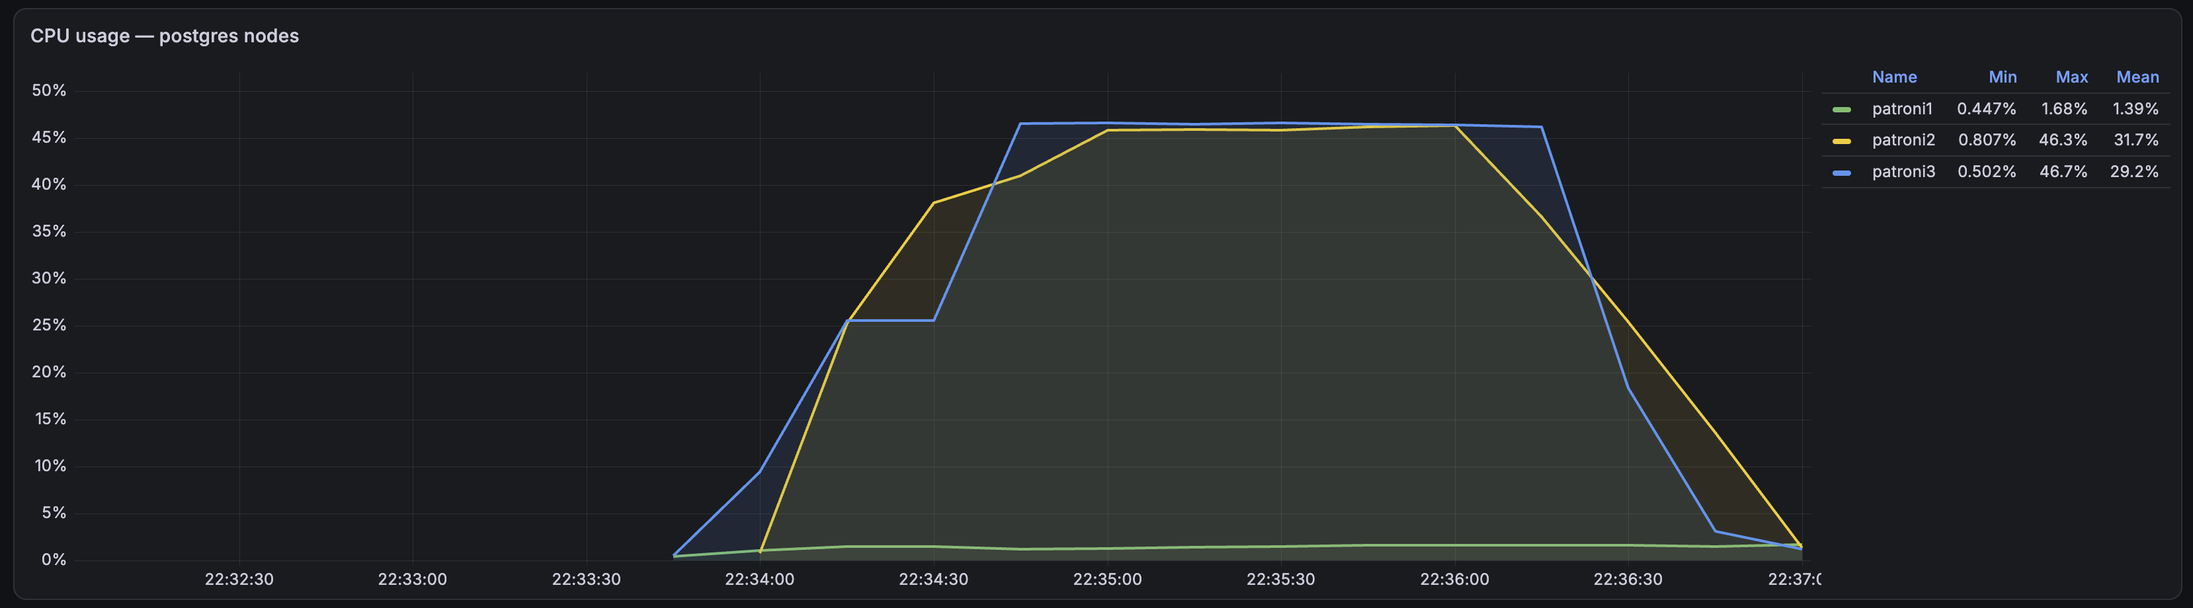
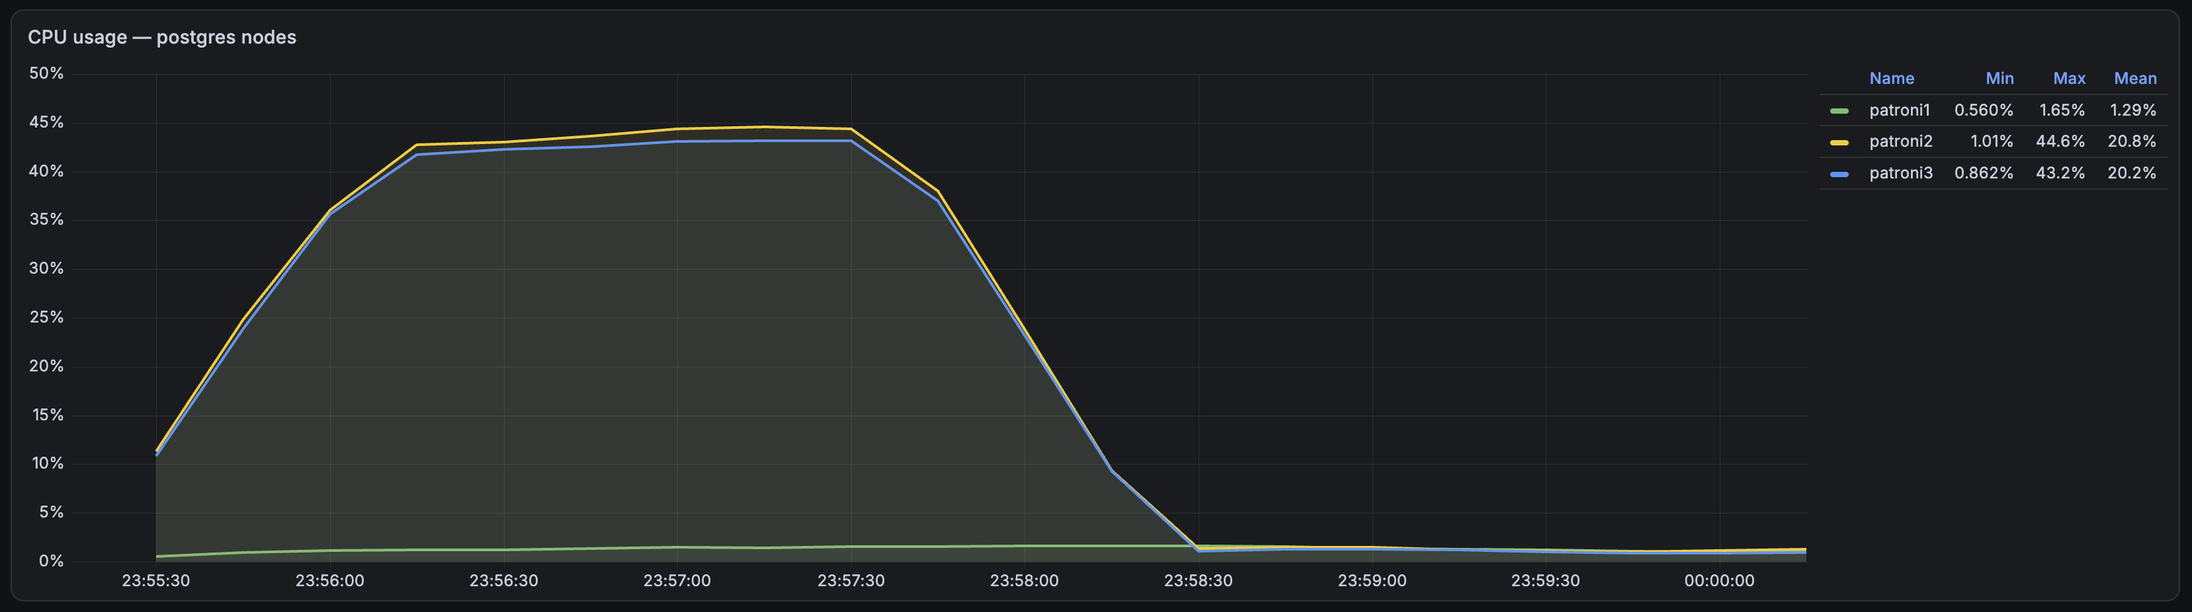
hw3: sync replication with patroni + haproxy + final report

diff --git a/internal/postgres/user.go b/internal/postgres/user.go
@@ -5,8 +5,11 @@ import (
 	"errors"
 	"fmt"
 	"strings"
+	"time"
 
+	"github.com/avast/retry-go/v4"
 	"github.com/jackc/pgx/v5"
+	"github.com/jackc/pgx/v5/pgconn"
 	"github.com/jackc/pgx/v5/pgxpool"
 
 	"github.com/dloshkarev/highloadarchitect/internal/domain"
@@ -29,22 +32,68 @@ func (r *UserRepository) Create(ctx context.Context, user domain.User, passwordH
 			id, first_name, second_name, birthdate, biography, city, password_hash
 		) VALUES ($1, $2, $3, $4, $5, $6, $7)
 	`
-	_, err := r.writePool.Exec(
-		ctx,
-		query,
-		user.ID,
-		user.FirstName,
-		user.SecondName,
-		user.Birthdate,
-		user.Biography,
-		user.City,
-		passwordHash,
+	// Учебное упрощение: ретраим только временные ошибки, чтобы приложение
+	// пережидало переключение лидера Patroni и не влияло на замер потерь
+	// при репликации. duplicate key считаем успехом (идемпотентность:
+	// первый insert закоммитился, но ответ клиенту потерялся).
+	err := retry.Do(
+		func() error {
+			_, err := r.writePool.Exec(
+				ctx,
+				query,
+				user.ID,
+				user.FirstName,
+				user.SecondName,
+				user.Birthdate,
+				user.Biography,
+				user.City,
+				passwordHash,
+			)
+			if isDuplicateKey(err) {
+				return nil
+			}
+
+			return err
+		},
+		retry.Attempts(0),
+		retry.Delay(100*time.Millisecond),
+		retry.MaxDelay(2*time.Second),
+		retry.DelayType(retry.BackOffDelay),
+		retry.LastErrorOnly(true),
+		retry.RetryIf(isTransientPGError),
+		retry.Context(ctx),
 	)
 	if err != nil {
 		return dbErr("insert user", err)
 	}
 
 	return nil
+}
+
+// isDuplicateKey — SQLSTATE 23505 (unique_violation).
+func isDuplicateKey(err error) bool {
+	var pgErr *pgconn.PgError
+
+	return errors.As(err, &pgErr) && pgErr.Code == "23505"
+}
+
+// isTransientPGError решает, стоит ли повторять операцию:
+//   - сетевые ошибки и ошибки пула (не PgError) — ретраим;
+//   - SQLSTATE 08xxx (обрыв соединения) — ретраим;
+//   - 57P03 (cannot_connect_now: сервер в shutdown/recovery) — ретраим;
+//   - 25006 (read_only_sql_transaction: запрос попал на реплику в окне
+//     failover) — ретраим;
+//   - остальные SQLSTATE — постоянные ошибки, ретраить бессмысленно.
+func isTransientPGError(err error) bool {
+	var pgErr *pgconn.PgError
+	if !errors.As(err, &pgErr) {
+		return true
+	}
+	if strings.HasPrefix(pgErr.Code, "08") {
+		return true
+	}
+
+	return pgErr.Code == "57P03" || pgErr.Code == "25006"
 }
 
 func (r *UserRepository) GetByID(ctx context.Context, userID string) (domain.User, error) {

diff --git a/internal/service/user.go b/internal/service/user.go
@@ -4,6 +4,7 @@ import (
 	"context"
 	"fmt"
 	"strings"
+	"sync"
 	"time"
 	"unicode/utf8"
 
@@ -30,6 +31,25 @@ type RegisterInput struct {
 	Biography  string
 	City       string
 	Password   string
+}
+
+// passwordHashCache кеширует хеши по паролю. Учебное упрощение: bcrypt — дорогая
+// CPU-операция, которая мешает тестировать запись в БД, а хеш самодостаточен
+// (соль зашита внутрь), поэтому одинаковый пароль может делить один хеш.
+var passwordHashCache sync.Map
+
+func hashPassword(password string) (string, error) {
+	if cached, ok := passwordHashCache.Load(password); ok {
+		return cached.(string), nil
+	}
+
+	hash, err := bcrypt.GenerateFromPassword([]byte(password), bcrypt.DefaultCost)
+	if err != nil {
+		return "", err
+	}
+	passwordHashCache.Store(password, string(hash))
+
+	return string(hash), nil
 }
 
 type UserSearchFilter struct {
@@ -102,7 +122,7 @@ func newUser(input RegisterInput) (domain.User, string, error) {
 		return domain.User{}, "", validationError("дата рождения должна быть в формате ГГГГ-ММ-ДД")
 	}
 
-	hash, err := bcrypt.GenerateFromPassword([]byte(input.Password), bcrypt.DefaultCost)
+	hash, err := hashPassword(input.Password)
 	if err != nil {
 		return domain.User{}, "", fmt.Errorf("hash password: %w", err)
 	}

diff --git a/docs/reports/hw3/report.md b/docs/reports/hw3/report.md
@@ -1,0 +1,141 @@
+## Методика
+
+- **READ-тест**: 500 000 запросов `GET /user/search` в 100 параллельных потоков.
+- **WRITE-тест**: 250 000 запросов `POST /user/register` в 100 параллельных потоков. Ручка выполняет 1 INSERT и 1 SELECT в БД.
+- Нагрузка подаётся утилитой `cmd/loadgen` с хоста на приложение, развёрнутое в docker-compose.
+- Метрики инфраструктуры снимаются с дашборда Grafana (CPU узлов PostgreSQL, коммиты транзакций).
+
+---
+
+## Эксперимент 1. Один узел PostgreSQL
+
+**Конфигурация**
+
+- 1 узел PostgreSQL.
+- Приложение использует один общий пул соединений на единственный узел.
+
+**Скриншоты**
+
+![Один узел PostgreSQL, READ](1.png)
+
+*READ-тест: дашборд Grafana во время прогона — CPU узла PostgreSQL и число закоммиченных транзакций.*
+
+---
+
+## Эксперимент 2. Кластер из 3 узлов: мастер + 2 реплики, асинхронная потоковая репликация
+
+**Конфигурация**
+
+- 3 узла PostgreSQL с отдельной конфигурацией для каждого в docker-compose; реплики подняты через `pg_basebackup -R` (master, slave, async-slave).
+- Приложение использует 2 пула соединений — для чтения и для записи. Пулы инициализируются списком адресов узлов; узлы для чтения перебираются по Round Robin внутри приложения.
+
+**Скриншоты**
+
+![Кластер master + 2 реплики, READ](2.png)
+
+*READ-тест: дашборд Grafana — CPU трёх узлов кластера (мастер и две реплики) во время прогона. Чтение идёт только на реплики, мастер почти не нагружен.*
+
+---
+
+## Эксперимент 3. Patroni-кластер, асинхронная репликация, роутинг через HAProxy
+
+**Конфигурация**
+
+- 3 узла PostgreSQL под управлением Patroni (асинхронная репликация). Docker-образ каждой ноды включает локальные настройки Patroni.
+- etcd — хранилище динамической конфигурации Patroni (роли узлов).
+- HAProxy с двумя frontend: `pg_write` (мастер) и `pg_read` (реплики). Принадлежность backend-узлов определяется через Patroni REST API (leader/replica health-check).
+- Приложение использует 2 пула соединений, в каждом один адрес — соответствующий frontend HAProxy.
+- Для исключения влияния кода на потери транзакций добавлены бесконечные ретраи вставок (на временные ошибки): пока идут выборы лидера, приложение повторяет INSERT.
+
+Состав кластера на момент теста:
+
+| Узел | Роль | Состояние | Lag |
+|---|---|---|---|
+| patroni1 | leader | running | — |
+| patroni2 | replica | streaming | 0 |
+| patroni3 | replica | streaming | 0 |
+
+**Результаты**
+
+На момент старта теста с остановкой мастера лидером был patroni3; после его остановки лидером стал patroni2, нагрузка чтения перераспределилась на patroni1. Потерь транзакций не зафиксировано — при асинхронной репликации это скорее везение (лаг реплик на localhost близок к нулю, окно потерь минимально).
+
+**Скриншоты**
+
+![Patroni async, READ](3.png)
+
+*READ-тест: дашборд Grafana — CPU узлов Patroni-кластера и коммиты транзакций. Чтение распределяется по репликам через HAProxy.*
+
+![Patroni async, WRITE](6.png)
+
+*WRITE-тест: дашборд Grafana — нагрузка на лидера (все записи идут через frontend pg_write), реплики принимают только WAL.*
+
+![Patroni async, WRITE с остановкой мастера](7.png)
+
+*WRITE-тест с остановкой мастера: в середине прогона лидер patroni3 остановлен, лидером стал patroni2 — виден провал нагрузки на старом лидере и её рост на новом.*
+
+---
+
+## Эксперимент 4. Patroni-кластер, кворумная синхронная репликация, роутинг через HAProxy
+
+**Конфигурация**
+
+- Аналогично эксперименту 3, но включена кворумная синхронная репликация (`synchronous_mode: quorum`, коммит ждёт подтверждения от любой одной реплики).
+
+Состав кластера на момент теста:
+
+| Узел | Роль | Состояние | Lag |
+|---|---|---|---|
+| patroni1 | leader | running | — |
+| patroni2 | quorum_standby | streaming | 0 |
+| patroni3 | quorum_standby | streaming | 0 |
+
+**Результаты**
+
+На момент старта теста с остановкой мастера лидером был patroni1; после его остановки лидером стал patroni2, нагрузка чтения перераспределилась на patroni3. Потерь транзакций нет — при синхронной репликации это гарантируется протоколом (коммит подтверждается только после flush WAL на кворумной реплике).
+
+**Скриншоты**
+
+![Patroni sync, WRITE](4.png)
+
+*WRITE-тест с синхронной репликацией: дашборд Grafana — CPU лидера и quorum-реплик. Коммит ждёт flush WAL на реплике, поэтому нагрузка заметна на всех узлах.*
+
+![Patroni sync, READ](5.png)
+
+*READ-тест с синхронной репликацией: дашборд Grafana — чтение по-прежнему идёт только на реплики, лидер нагружен лишь фоновой репликацией.*
+
+![Patroni sync, WRITE с остановкой мастера](8.png)
+
+*WRITE-тест с остановкой мастера: в середине прогона лидер patroni1 остановлен, лидером стал patroni2 — на графике виден момент переключения и перераспределение нагрузки.*
+
+---
+
+## Сравнение производительности
+
+### READ (500 000 запросов /user/search, 100 потоков)
+
+| Конфигурация | throughput, req/s | latency медиана, мс |
+|---|---|---|
+| 1 узел PostgreSQL | 4141.88 | 24.17 |
+| Мастер + 2 реплики (async, роутинг в приложении) | 4288.97 | 20.81 |
+| Patroni + HAProxy (async) | 3660.45 | 25.55 |
+| Patroni + HAProxy (sync quorum) | 3493.55 | 26.33 |
+
+### WRITE, стабильный кластер (250 000 запросов /user/register, 100 потоков)
+
+| Конфигурация | throughput, req/s | latency медиана, мс |
+|---|---|---|
+| Patroni + HAProxy (async) | 1847.66 | 49.87 |
+| Patroni + HAProxy (sync quorum) | 1300.40 | 67.83 |
+
+### WRITE с остановкой мастера в процессе теста
+
+| Конфигурация | throughput, req/s | latency медиана, мс | Потери транзакций |
+|---|---|---|---|
+| Patroni + HAProxy (async) | 1520.57 | 46.20 | не зафиксированы |
+| Patroni + HAProxy (sync quorum) | 1053.30 | 73.16 | нет |
+
+### Выводы
+
+- **READ**: переход с одного узла на 3-узловой кластер с Round Robin по репликам дал небольшой прирост (~4%); добавление HAProxy и включение синхронной репликации постепенно снижают throughput чтения (~−16% к одиночному узлу) за счёт дополнительного сетевого hop и фоновой репликации.
+- **WRITE**: синхронная репликация ожидаемо дороже асинхронной — throughput падает на ~30% (коммит ждёт flush WAL на реплике), медианная latency растёт с ~50 до ~68 мс.
+- **Остановка мастера** под нагрузкой снижает throughput ещё на ~18% (async) и ~19% (sync): время выборов нового лидера (~несколько секунд) приложение пережидает на ретраях — отдельные запросы ждали до 36–38 с, хотя медиана почти не изменилась. Ошибок и неподтверждённых потерь в обоих режимах не зафиксировано, но гарантию отсутствия потерь даёт только синхронный режим.

diff --git a/README.md b/README.md
@@ -25,6 +25,7 @@ erDiagram
 
 - Токен авторизации — случайный UUID без срока действия. После успешного входа предыдущие токены этого пользователя удаляются, остаётся один действующий токен.
 - Имя и фамилия не длиннее 100 символов, город не длиннее 100, биография не длиннее 2000. Пароль от 8 до 72 символов. Хеш bcrypt принимает не больше 72 байт, поэтому более длинная в байтах строка тоже отклоняется. Тело запроса не больше 64 КБ.
+- При регистрации все пользователи получают одинаковый пароль
 
 ## Интеграционные тесты
 
@@ -45,7 +46,8 @@ make docker-run
 С хоста доступны:
 
 - приложение — http://localhost:8080
-- PostgreSQL — `localhost:5432`, пользователь `social`, пароль `social`, база `social`
+- PostgreSQL через HAProxy: `localhost:5000` — запись (лидер), `localhost:5001` — чтение (реплики); пользователь `social`, пароль `social`, база `social`
+- узлы PostgreSQL напрямую (для отладки): `localhost:5433`–`5435` (`patroni1`–`patroni3`)
 
 Остановка:
 
@@ -82,7 +84,7 @@ make metrics-reset
 
 ## Кластер PostgreSQL (Patroni)
 
-Кластер под управлением Patroni: три узла `patroni1`–`patroni3` (образ `build/patroni.Dockerfile`, конфиг `deployments/patroni/patroni.yml`), состояние кластера — в `etcd`. Лидер и реплики выбираются Patroni автоматически, при первом старте лидер накатывает схему и наполнение через `deployments/patroni/post_bootstrap.sh`.
+Кластер под управлением Patroni: три узла `patroni1`–`patroni3` (образ `build/patroni.Dockerfile`, конфиг `deployments/patroni/patroni.yml`), состояние кластера — в `etcd`. Лидер и реплики выбираются Patroni автоматически, при первом старте лидер накатывает схему и наполнение через `deployments/patroni/post_bootstrap.sh`. Репликация кворумная синхронная (`synchronous_mode: quorum`, `synchronous_standby_names = ANY 1 (...)`): коммит ждёт подтверждения от одной из двух реплик. Управляется через REST API Patroni: `curl -X PATCH http://localhost:8008/config -H 'Content-Type: application/json' -d '{"synchronous_mode": "quorum"}'` (`false` — выключить).
 
 Перед кластером стоит HAProxy (`deployments/haproxy/haproxy.cfg`), роль узлов определяется по REST API Patroni:
 
@@ -92,10 +94,21 @@ make metrics-reset
 
 Приложение ходит только через HAProxy: write-пул на порт 5000, read-пул (поиск анкет) на 5001. Прямые порты узлов для отладки: `localhost:5433`–`5435` (пользователь `social`, пароль `social`, база `social`).
 
-Состояние кластера:
+Состав и состояние кластера (кто лидер, кто реплика, лаг):
 
 ```bash
 docker exec highloadarchitect-patroni1 gosu postgres patronictl -c /etc/patroni/patroni.yml list
+```
+
+То же самое через REST API Patroni с хоста — `/cluster` отдаёт состав всего кластера и доступен с любого живого узла, `/patroni` — подробное состояние конкретного узла:
+
+- patroni1 — http://localhost:8008/cluster
+- patroni2 — http://localhost:8009/cluster
+- patroni3 — http://localhost:8010/cluster
+
+```bash
+curl -s http://localhost:8009/cluster | python3 -m json.tool   # состав кластера
+curl -s http://localhost:8009/patroni  | python3 -m json.tool   # состояние узла patroni2
 ```
 
 Полный цикл поднятия с нуля — `make docker-fresh` (реплики клонируют лидер, занимает пару минут; приложение стартует, когда реплики встанут в строй).
